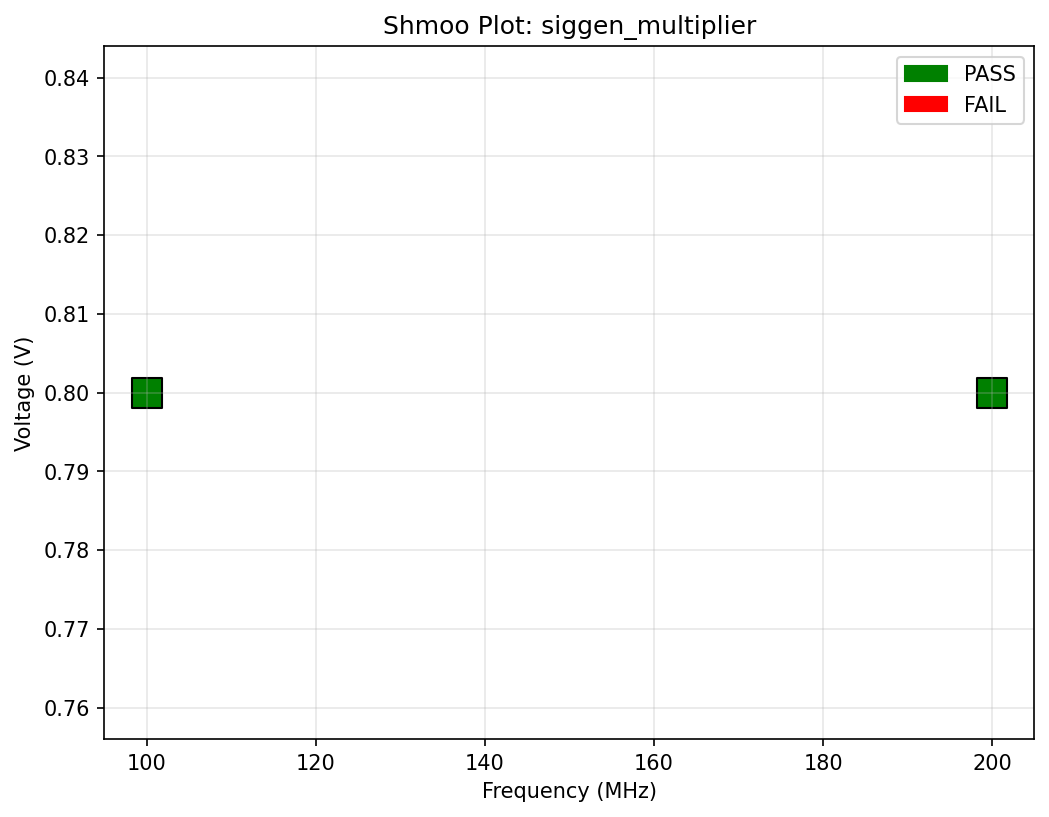
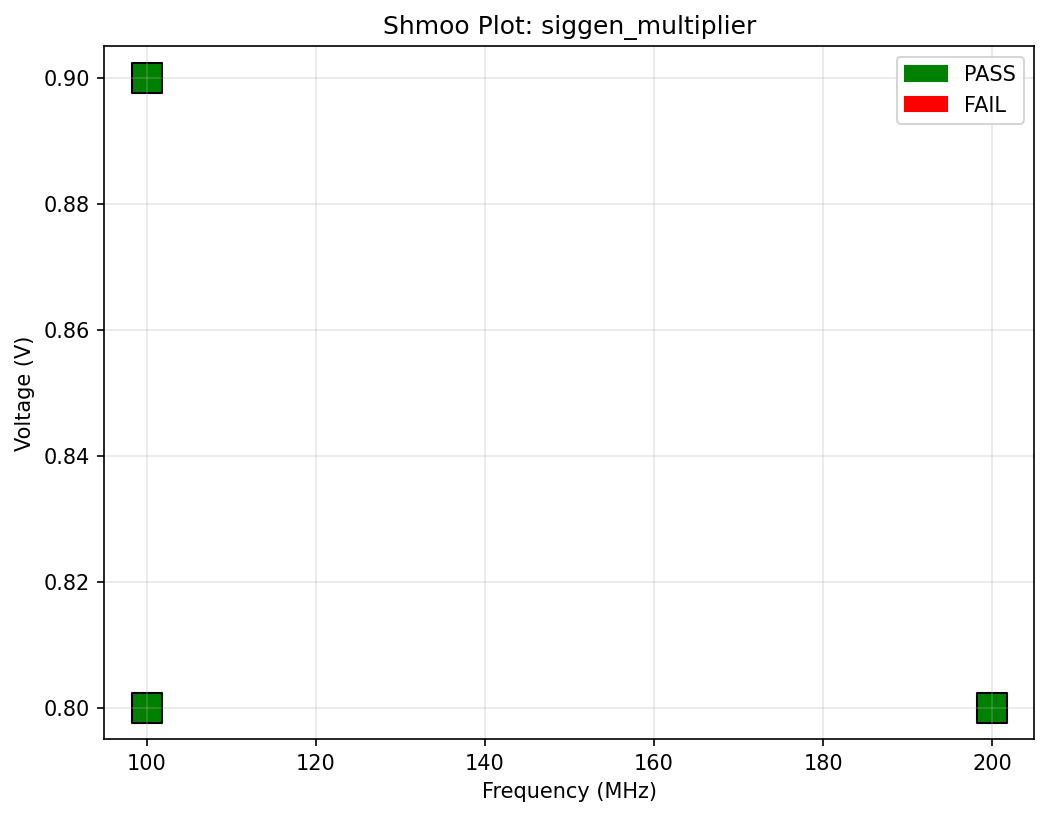
ci: update generated shmoo plots and summaries

diff --git a/outputs/shmoo_summary.md b/outputs/shmoo_summary.md
@@ -7,7 +7,8 @@
 | siggen_adder.rpt      | siggen_adder      |       0.9 |         300 | PASS     |          23.1 |
 | siggen_adder.rpt      | siggen_adder      |       1   |         300 | PASS     |          26.5 |
 | siggen_multiplier.rpt | siggen_multiplier |       0.8 |         100 | PASS     |          19.9 |
-| siggen_multiplier.rpt | siggen_multiplier |       0.8 |         200 | PASS     |          26   |
+| siggen_multiplier.rpt | siggen_multiplier |       0.8 |         200 | PASS     |          25.8 |
+| siggen_multiplier.rpt | siggen_multiplier |       0.9 |         100 | PASS     |          24.3 |
 | siggen_random.rpt     | siggen_random     |       0.8 |         100 | PASS     |          17.3 |
 | siggen_random.rpt     | siggen_random     |       0.9 |         200 | PASS     |          21.5 |
 | siggen_random.rpt     | siggen_random     |       0.7 |         300 | FAIL     |          26   |
